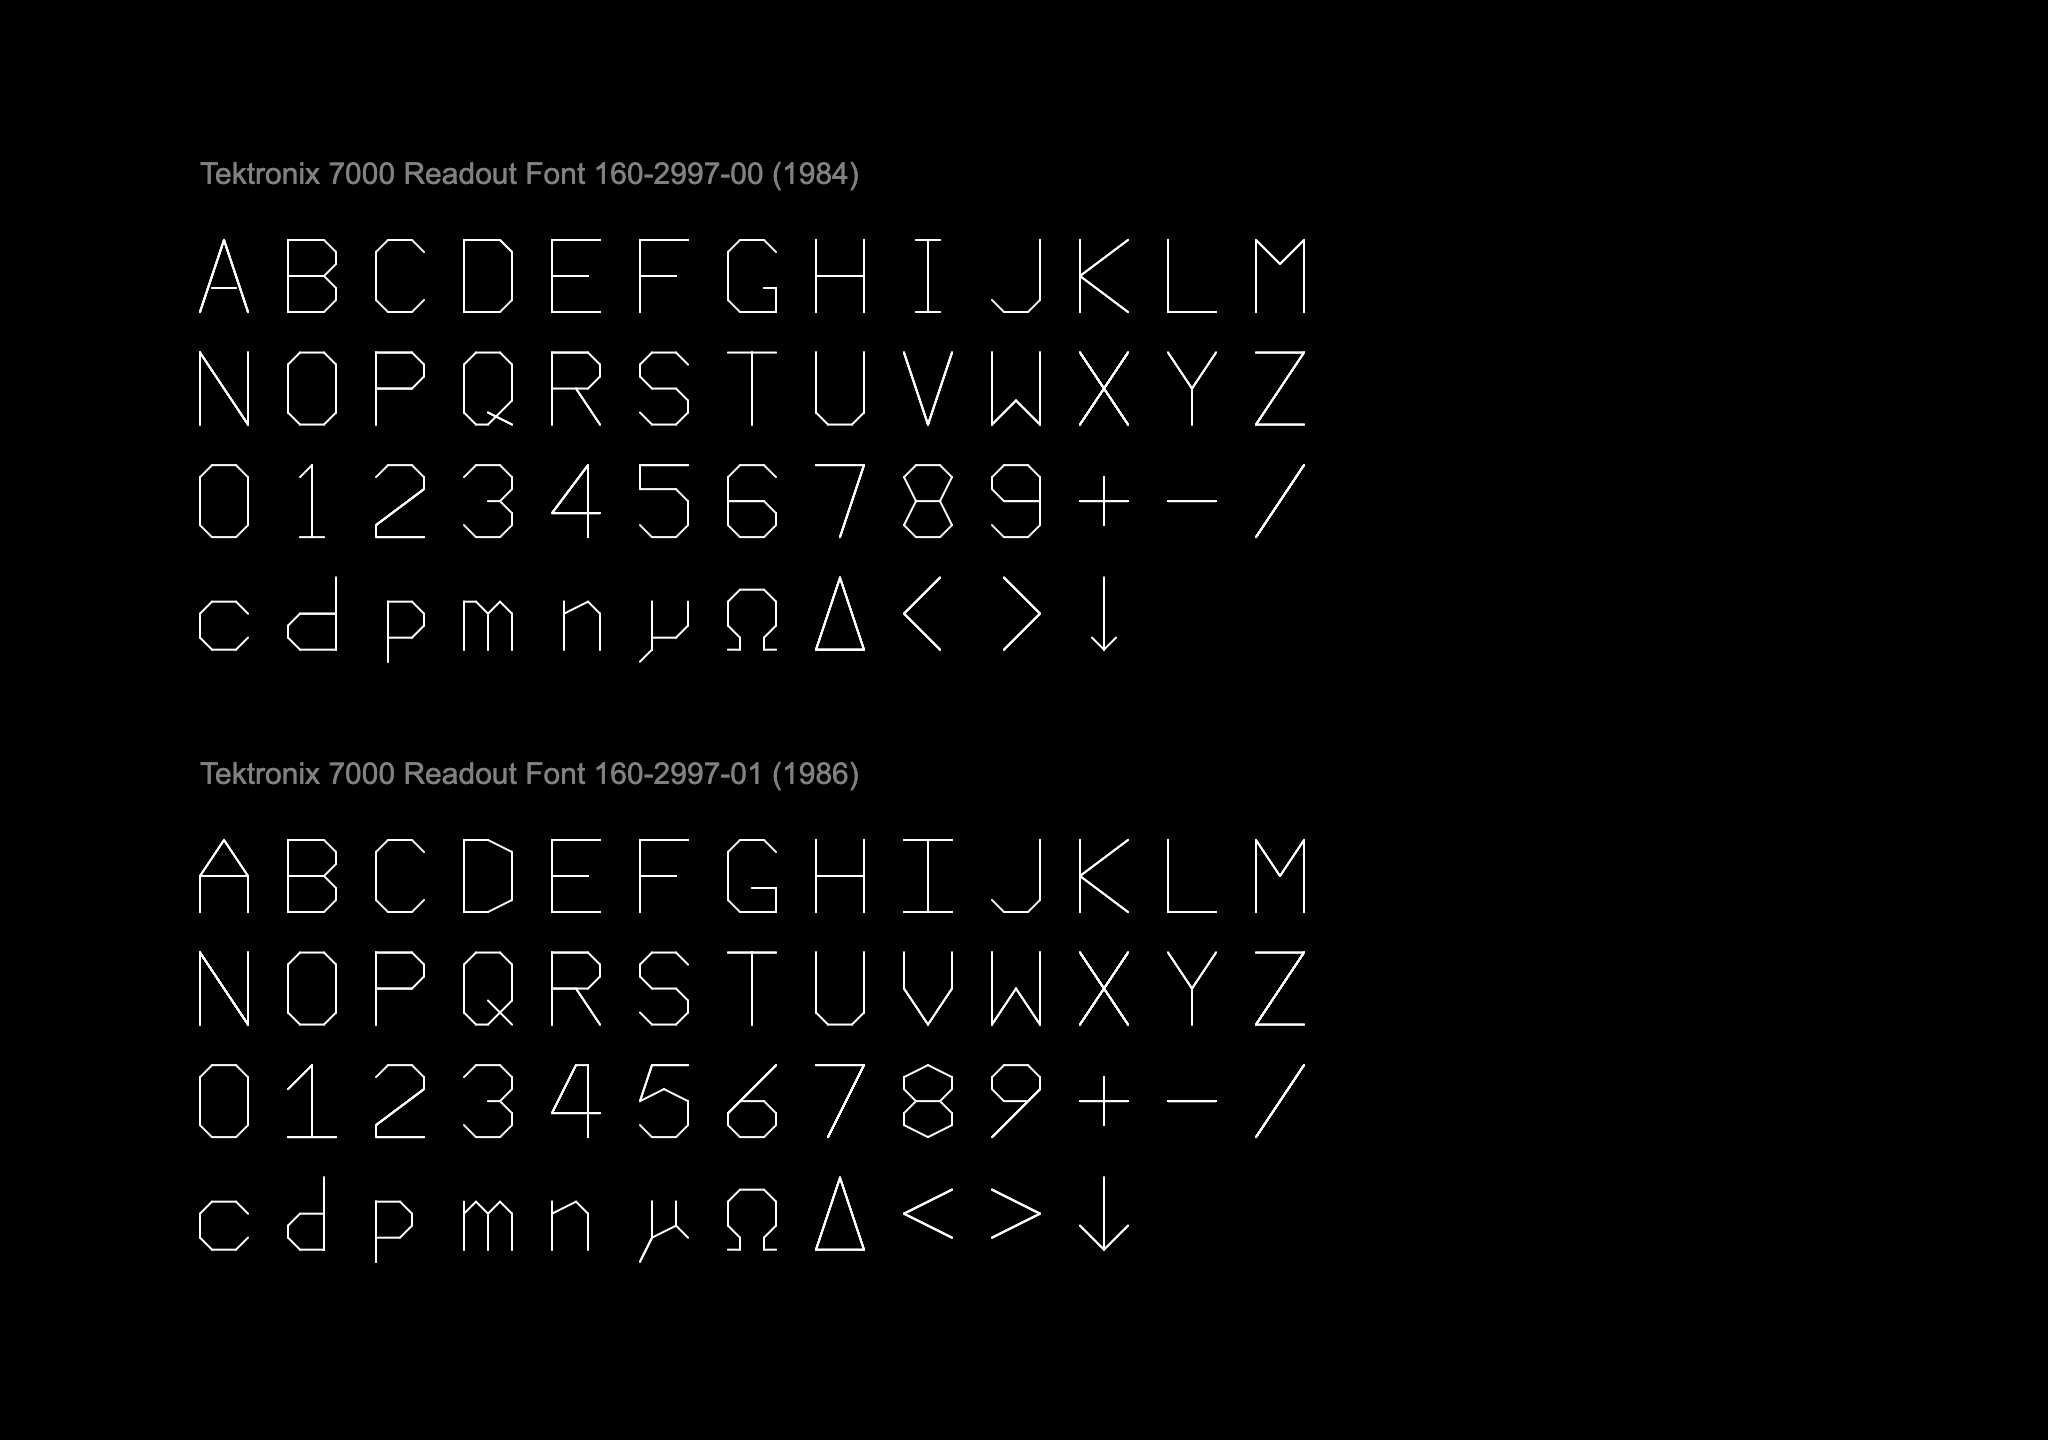
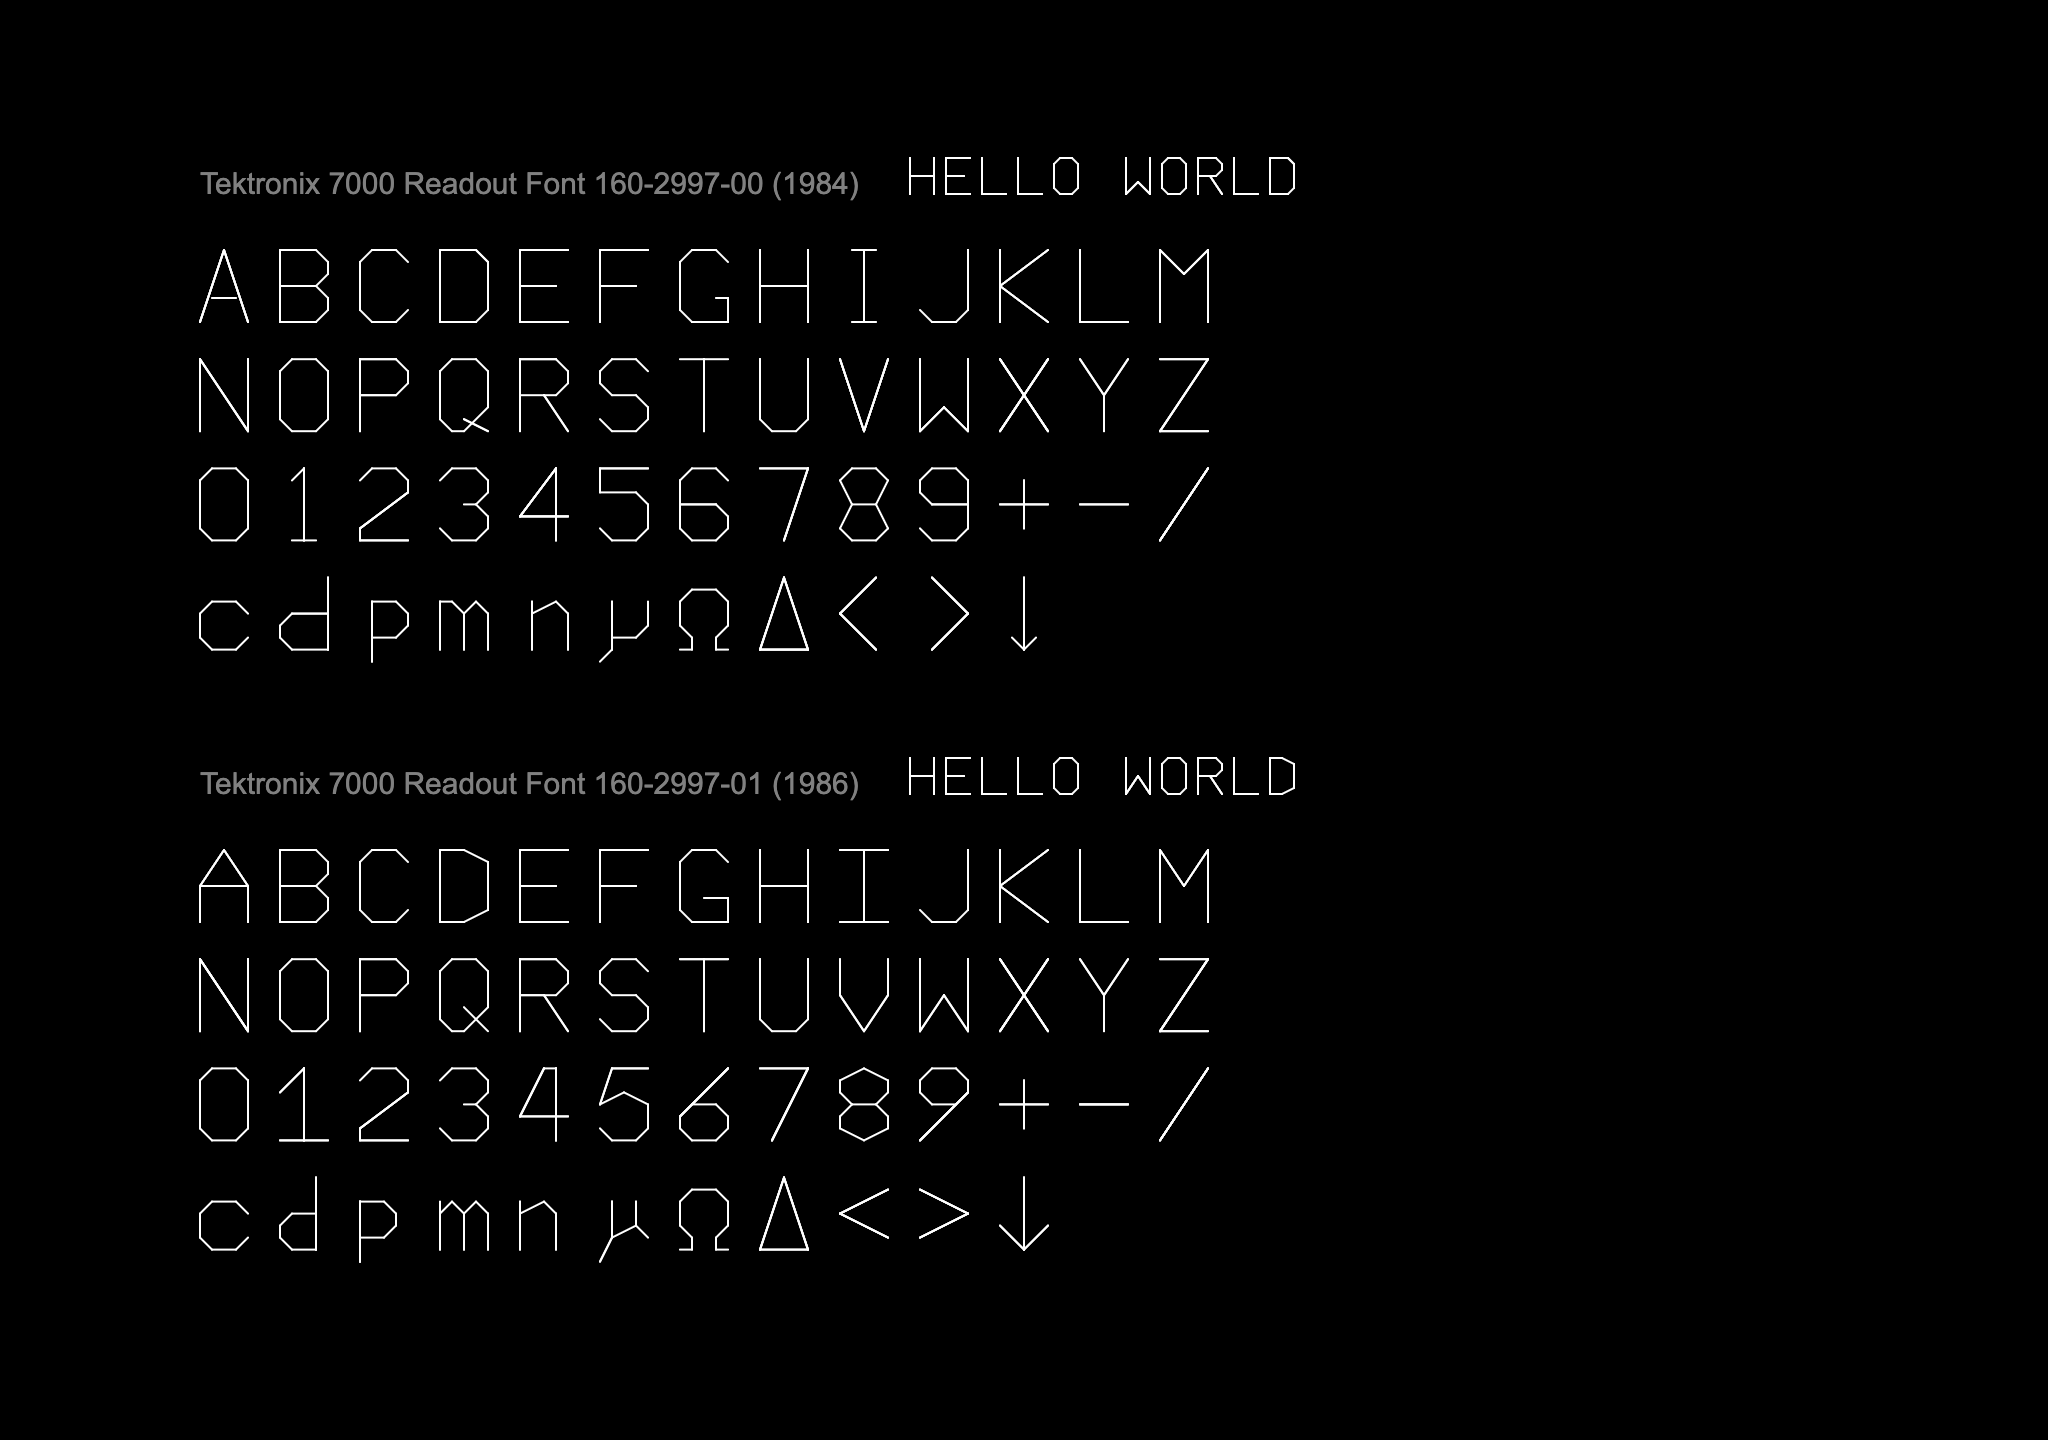
Tektronix update.

diff --git a/tektronix_7000_fonts/sketch.js b/tektronix_7000_fonts/sketch.js
@@ -1,16 +1,15 @@
 // Monoline vector fonts from the Tektronix 7000-series oscilloscope
 // character generator EPROM readout board. Extracted from Holger's PDFs
-// Font_160-2997-00.pdf and Font_160-2997-01.pdf, which reproduce
+// `Font_160-2997-00.pdf` and `Font_160-2997-01.pdf`, which reproduce
 // Tektronix readout fonts 160-2997-00 (1984) and 160-2997-01 (1986).
 //
-// Background: https://w140.com/tekwiki/wiki/7000_series_readout_system
+// Background: https://w140.com/tekwiki/wiki/7000_series_readout_system.
 // The source PDF streams store page-rotated line segments; the coordinates
 // below are normalized to displayed glyph coordinates with positive Y down.
 
 function setup() {
   createCanvas(1024, 720);
   pixelDensity(2);
-  noLoop();
 
   buildGlyphMap(tektronix7000Font1984);
   buildGlyphMap(tektronix7000Font1986);
@@ -22,12 +21,19 @@ function keyPressed() {
   }
 }
 
+
 function draw() {
   background('black');
-  noFill();
+  strokeWeight(1.0);
+  strokeJoin(ROUND);
+  strokeCap(ROUND);
 
-  drawFontBlock(tektronix7000Font1984, 100, 120);
-  drawFontBlock(tektronix7000Font1986, 100, 420);
+  drawFontBlock(tektronix7000Font1984, 100, 125);
+  drawFontBlock(tektronix7000Font1986, 100, 425);
+
+  stroke("white"); 
+  drawString(tektronix7000Font1984, "HELLO WORLD", 455,79,  21, 0.9);
+  drawString(tektronix7000Font1986, "HELLO WORLD", 455,379, 21, 0.9);
 }
 
 
@@ -39,9 +45,6 @@ function drawFontBlock(font, x, y) {
   text(font.title, x, y - 28);
 
   stroke('white');
-  strokeWeight(1);
-  strokeJoin(ROUND);
-  strokeCap(ROUND);
   noFill();
 
   const TEKTRONIX_7000_SUPPORTED_CHARS = [
@@ -52,8 +55,8 @@ function drawFontBlock(font, x, y) {
   ];
 
   const size = 42;
-  const spacing = 1.1;
-  const lineHeight = 1.34;
+  const spacing = 1.0
+  const lineHeight = 1.3;
   let ty = y;
   for (const row of TEKTRONIX_7000_SUPPORTED_CHARS) {
     drawString(font, row, x, ty, size, spacing);
@@ -183,7 +186,6 @@ const tektronix7000Font1984 = {
     {"char":">","strokes":[[[30,0],[120,90]],[[120,90],[30,180]],[[30,180],[120,90]],[[120,90],[30,0]],[[30,0],[120,90]],[[120,90],[30,180]]]},
     {"char":"↓","strokes":[[[30,150],[60,180]],[[60,180],[60,0]],[[60,0],[60,180]],[[60,180],[60,0]],[[90,150],[60,180]]]},
     {"char":".","strokes":[[[0,210],[0,210]],[[0,210],[0,210]],[[0,210],[0,210]]]},
-    {"char":".","strokes":[[[0,210],[0,210]],[[0,210],[0,210]],[[0,210],[0,210]]]}
   ]
 };
 
@@ -242,7 +244,6 @@ const tektronix7000Font1986 = {
     {"char":"<","strokes":[[[120,150],[0,90]],[[0,90],[120,30]],[[120,30],[0,90]],[[0,90],[120,150]],[[120,150],[0,90]],[[0,90],[120,30]]]},
     {"char":">","strokes":[[[0,150],[120,90]],[[120,90],[0,30]],[[0,30],[120,90]],[[120,90],[0,150]],[[0,150],[120,90]],[[120,90],[0,30]]]},
     {"char":"↓","strokes":[[[60,180],[60,0]],[[60,0],[60,180]],[[60,180],[0,120]],[[0,120],[60,180]],[[60,180],[120,120]],[[120,120],[60,180]],[[60,180],[60,0]],[[60,0],[60,180]]]},
-    {"char":".","strokes":[[[0,210],[0,210]],[[0,210],[0,210]],[[0,210],[0,210]]]},
     {"char":".","strokes":[[[0,210],[0,210]],[[0,210],[0,210]],[[0,210],[0,210]]]}
   ]
 };
